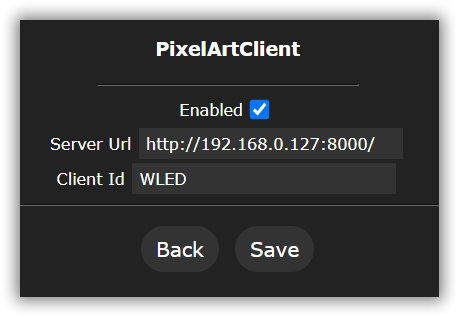
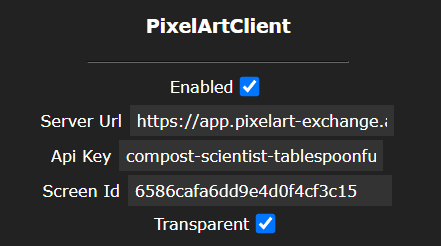
updated README

diff --git a/readme.md b/readme.md
@@ -1,9 +1,12 @@
 # Pixel Art Client usermod
 
 ## Description
-This usermod is a client built to request images from the [Pixelart exchange](https://app.pixelart-exchange.au/) or a [custom server](https://github.com/hughc/pixel-art-server). It can perform cross fades between images, does 8-bit transparency over other WLED effects, and understands multi-frame images (memory limitations apply).
+This usermod is a client built to request images from the [Pixelart Exchange](https://app.pixelart-exchange.au/) or a [custom server](https://github.com/hughc/pixel-art-server). It can
+ - perform cross fades between images
+ - does optional 8-bit transparency over other WLED effects
+ - understands multi-frame images / animated gifs (memory limitations apply).
 
-Due to limitations in the way that WLED handles refreshes, you need to select an effect to get higher frame rates. The usermod includes a custom effect (Pixel Art) that does nothing, but ups the refresh rate and improve cross-fade performance. Select it, and drag the Transition Speed slider to the right to speed up redraw performance.
+Due to limitations in the way that WLED handles refreshes, you need to select an effect to get higher frame rates. The usermod includes a custom effect (Pixel Art) that does nothing, but ups the refresh rate to improve cross-fade performance. Select it, and drag the Transition Speed slider to the right to speed up redraw performance.
 
 ## Hardware requirements
 An ESP32 is recommended, for the extra memory requirements to parse multi-frame images for larger matrixes (tested up to 32x32 pixels).
@@ -45,10 +48,21 @@ Once compiled and flashed to your device, head into Config -> Usermods. There sh
 
 ![screenshot](/screenshot.png)
 
-With the server running, enter its URL. Give the client an ID. When you hit save a request to the server's `/checkin` endpoint will occur. If this is successful the client should start requesting and recieving images. If not, it will continue to periodically request the `/checkin` url until the server responds. 
+By default, the client is configure to connect to the [Pixelart Exchange](https://app.pixelart-exchange.au/) server. You can configure it to connect to a local server if you have one set up.
+
+### Pixelart Exchange
+The client will, out of the box, be served random images. If you [register](https://app.pixelart-exchange.au/register) for an account, you can go to Account Settings, copy the API key found there, and paste it into the usermod settings to associate your WLED device with your account. You can then set up a 'screen' in your account to uniquely identity the WLED client, allowing you to set unique playback modes or associate playlists of images with the screen. Once the screen is created, you can copy the Screen Id back into the usermod settings to associate your WLED device with the screen. 
+
+### local server
+With a [custom server](https://github.com/hughc/pixel-art-server) set up on your LAN, enter its URL. In the Usermod settings, enter a unique Screen Id. When you hit save a request to the server's `/checkin` endpoint will occur. If this is successful the client should start requesting and recieving images. If not, it will continue to periodically request the `/checkin` url until the server responds. 
 
 Once checked in the client can be configured in the admin interface on the server to assign a playlist to it, otherwise it will be served random images.
 
 ## Debugging
 
 Some useful messages around what the client is doing are printed to the serial port, including the URLs it is requesting and how its memory use is faring. The URLs can be tested in a web browser.
+
+## To do
+
+- switch to an asynchronous http client to stop animations freezing each time a request is made
+- write the results of each request to the file system (if space allows) and then read back to reduce the number of requests made 
